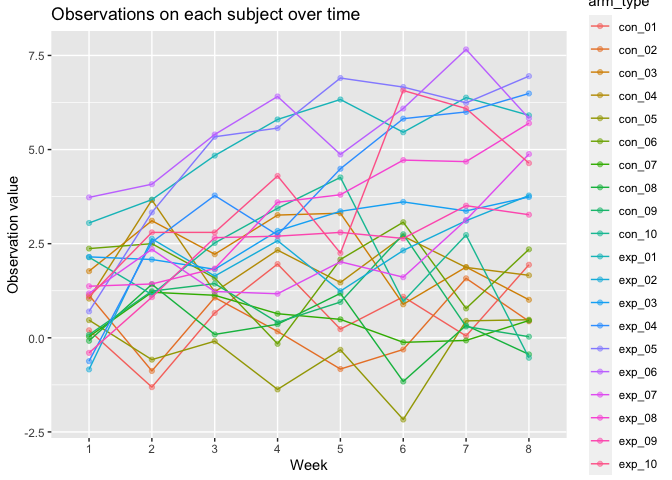
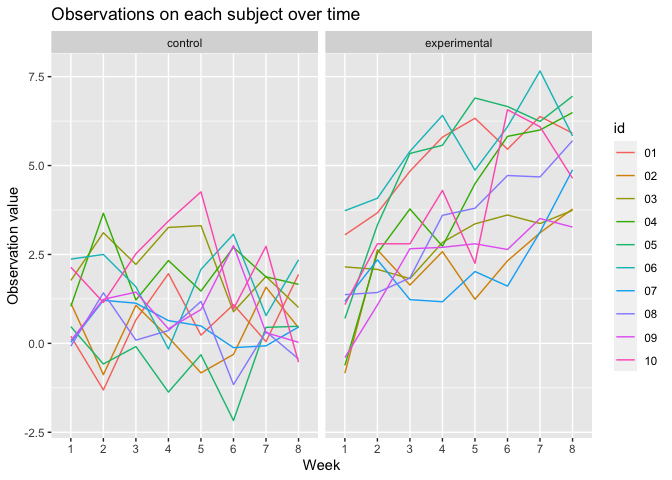
Almost done with hw5

diff --git a/p8105_hw5_sc4935.md b/p8105_hw5_sc4935.md
@@ -20,7 +20,7 @@ library(tidyverse)
 
 # Problem 1
 
-### Describe the raw data
+Raw data is large and some variables are not cleaned.
 
 ### Create a city\_state variable
 
@@ -28,8 +28,7 @@ library(tidyverse)
 homicide_df = read_csv("data/homicide-data.csv") %>% 
   janitor::clean_names() %>% 
   mutate(city_state = str_c(city, state, sep = ", ")) %>% 
-  mutate(solved_or_not = if_else(disposition == "Closed without arrest" | disposition == "Open/No arrest", "unsolved", "solved")) %>% 
-  view()
+  mutate(solved_or_not = if_else(disposition == "Closed without arrest" | disposition == "Open/No arrest", "unsolved", "solved")) 
 ```
 
     ## Rows: 52179 Columns: 12
@@ -470,40 +469,109 @@ research_tidy = research_df %>%
     names_to = "week",
     values_to = "observations") %>% 
   mutate(week = str_replace(week, "week_", "")) %>% 
-  arrange(arm_type, week)
+  separate(arm_type, into = c("arm", "id"), sep = "_") %>% 
+  mutate(arm = recode(arm, "con" = "control", "exp" = "experimental")) %>% 
+  arrange(arm, id, week) 
   
 research_tidy
 ```
 
-    ## # A tibble: 160 × 3
-    ##    arm_type week  observations
-    ##    <chr>    <chr>        <dbl>
-    ##  1 con_01   1             0.2 
-    ##  2 con_01   2            -1.31
-    ##  3 con_01   3             0.66
-    ##  4 con_01   4             1.96
-    ##  5 con_01   5             0.23
-    ##  6 con_01   6             1.09
-    ##  7 con_01   7             0.05
-    ##  8 con_01   8             1.94
-    ##  9 con_02   1             1.13
-    ## 10 con_02   2            -0.88
+    ## # A tibble: 160 × 4
+    ##    arm     id    week  observations
+    ##    <chr>   <chr> <chr>        <dbl>
+    ##  1 control 01    1             0.2 
+    ##  2 control 01    2            -1.31
+    ##  3 control 01    3             0.66
+    ##  4 control 01    4             1.96
+    ##  5 control 01    5             0.23
+    ##  6 control 01    6             1.09
+    ##  7 control 01    7             0.05
+    ##  8 control 01    8             1.94
+    ##  9 control 02    1             1.13
+    ## 10 control 02    2            -0.88
     ## # … with 150 more rows
 
 ### Make a spaghetti plot showing observations on each subject over time
 
 ``` r
-ggplot(research_tidy, aes(x = week, y = observations, color = arm_type, group = arm_type)) +
-  geom_point(alpha = 0.5) + geom_line() + 
+ggplot(research_tidy, aes(x = week, y = observations, color = id, group = id)) +
+  geom_line() + facet_grid(. ~ arm) +
   labs(
     title = "Observations on each subject over time",
     x = "Week",
     y = "Observation value"
-  ) 
+  )
 ```
 
 ![](p8105_hw5_sc4935_files/figure-gfm/unnamed-chunk-9-1.png)<!-- -->
 
 ### Comment on differences between groups
 
+Compare the experimental group to the control group, the trend of the
+experimental group shows strong positive correlation(observations of
+each subject increase over time) for the observations on each subject
+over time. For the trend of the control group, the plot indicates very
+weak correlation for the observations on each subject over time.
+
 # Problem 3
+
+Load the iris dataset
+
+``` r
+set.seed(10)
+
+iris_with_missing = iris %>% 
+  map_df(~replace(.x, sample(1:150, 20), NA)) %>%
+  mutate(Species = as.character(Species)) 
+
+iris_with_missing
+```
+
+    ## # A tibble: 150 × 5
+    ##    Sepal.Length Sepal.Width Petal.Length Petal.Width Species
+    ##           <dbl>       <dbl>        <dbl>       <dbl> <chr>  
+    ##  1          5.1         3.5          1.4         0.2 setosa 
+    ##  2          4.9         3            1.4         0.2 setosa 
+    ##  3          4.7         3.2          1.3         0.2 setosa 
+    ##  4          4.6         3.1          1.5        NA   setosa 
+    ##  5          5           3.6          1.4         0.2 setosa 
+    ##  6          5.4         3.9          1.7         0.4 setosa 
+    ##  7         NA           3.4          1.4         0.3 setosa 
+    ##  8          5           3.4          1.5         0.2 setosa 
+    ##  9          4.4         2.9          1.4         0.2 setosa 
+    ## 10          4.9         3.1         NA           0.1 setosa 
+    ## # … with 140 more rows
+
+Write two cases of functions
+
+``` r
+iris_wo_missing = function(vec) {
+  if (is.numeric(vec)) {
+    replace_na(vec, round(mean(vec, na.rm = TRUE), digits = 1))
+    }
+  else if (is.character(vec)) {
+    replace_na(vec, "virginica")
+    }
+} 
+```
+
+### Apply this function to the columns of iris\_with\_missing using a map statement
+
+``` r
+map_df(iris_with_missing, iris_wo_missing) 
+```
+
+    ## # A tibble: 150 × 5
+    ##    Sepal.Length Sepal.Width Petal.Length Petal.Width Species
+    ##           <dbl>       <dbl>        <dbl>       <dbl> <chr>  
+    ##  1          5.1         3.5          1.4         0.2 setosa 
+    ##  2          4.9         3            1.4         0.2 setosa 
+    ##  3          4.7         3.2          1.3         0.2 setosa 
+    ##  4          4.6         3.1          1.5         1.2 setosa 
+    ##  5          5           3.6          1.4         0.2 setosa 
+    ##  6          5.4         3.9          1.7         0.4 setosa 
+    ##  7          5.8         3.4          1.4         0.3 setosa 
+    ##  8          5           3.4          1.5         0.2 setosa 
+    ##  9          4.4         2.9          1.4         0.2 setosa 
+    ## 10          4.9         3.1          3.8         0.1 setosa 
+    ## # … with 140 more rows
